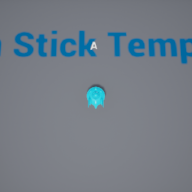
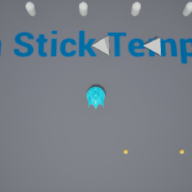
cambio velocidad disparo nave transporte

diff --git a/Source/Galaga_USFX_L01/NaveEnemigaTransporte.cpp b/Source/Galaga_USFX_L01/NaveEnemigaTransporte.cpp
@@ -14,7 +14,7 @@ ANaveEnemigaTransporte::ANaveEnemigaTransporte()
 void ANaveEnemigaTransporte::BeginPlay() 
 {
     Super::BeginPlay();
-    GetWorld()->GetTimerManager().SetTimer(TiempoDisparo, this, &ANaveEnemigaTransporte::Disparar, 3.0f, true);
+    GetWorld()->GetTimerManager().SetTimer(TiempoDisparo, this, &ANaveEnemigaTransporte::Disparar, 2.0f, true);
 }
 
 void ANaveEnemigaTransporte::Mover(float DeltaTime)
